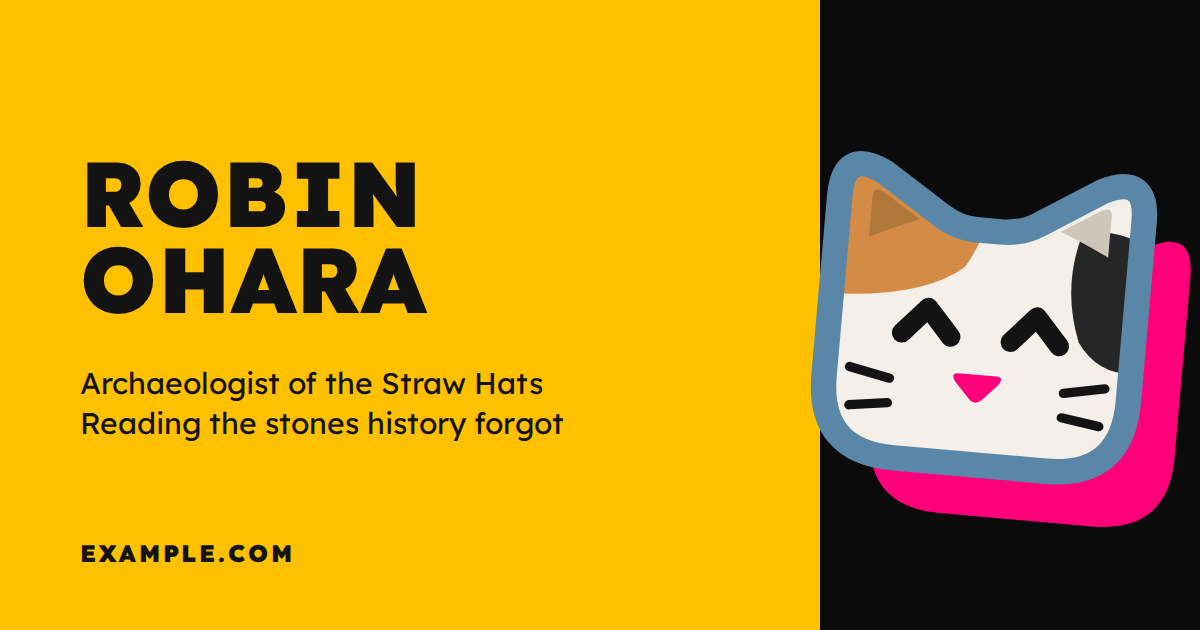
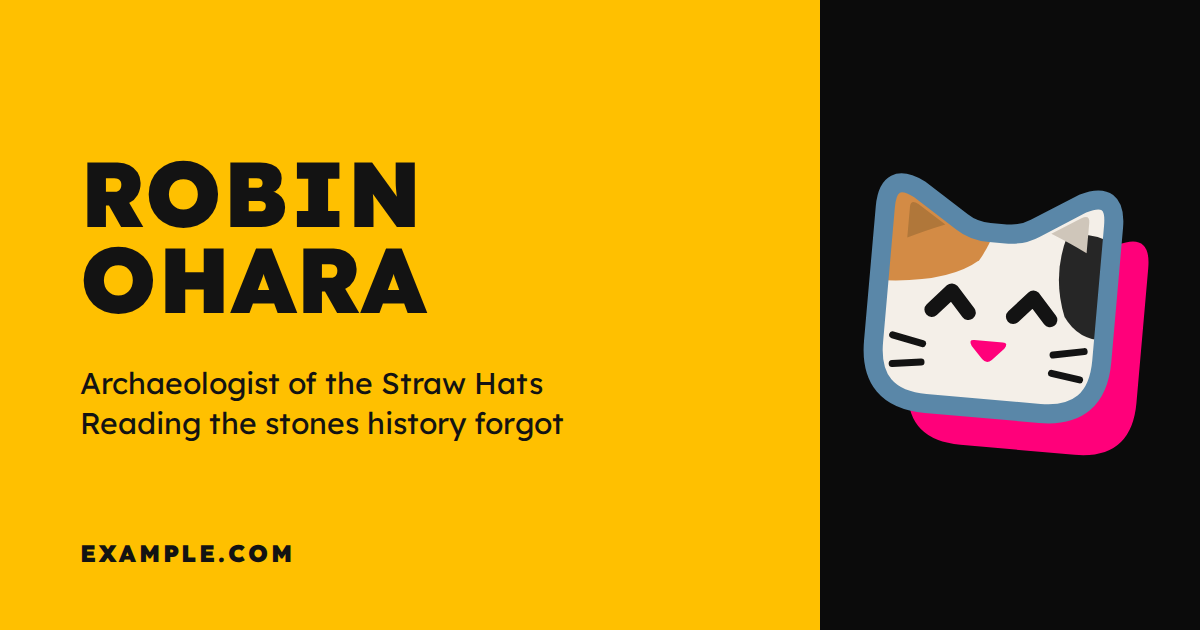
fix: Center the sharing image's mark whole on the strip, clear of the edges link previews crop.

Changed region(s): [[0.6783, 0.2413, 1.0, 0.8444]]

diff --git a/ARCHITECTURE.md b/ARCHITECTURE.md
@@ -386,7 +386,7 @@ in `wrangler.jsonc`).
 
 - `og-default.png`: 1200x630, the sharing image for every page without a
   cover: the name, `site.tagline` and `site.name` on the gold panel, the logo
-  cat on the dark strip. Rendered by `npm run og`
+  cat whole and centered on the dark strip, clear of the cropped edges. Rendered by `npm run og`
   ([DEVELOPMENT.md](docs/DEVELOPMENT.md#the-sharing-image)). A PNG in `public/`
   because scrapers need a stable URL and format.
 - `src/lib/brand-mark.ts`: the logo cat, an eared tile in Hela's calico with
